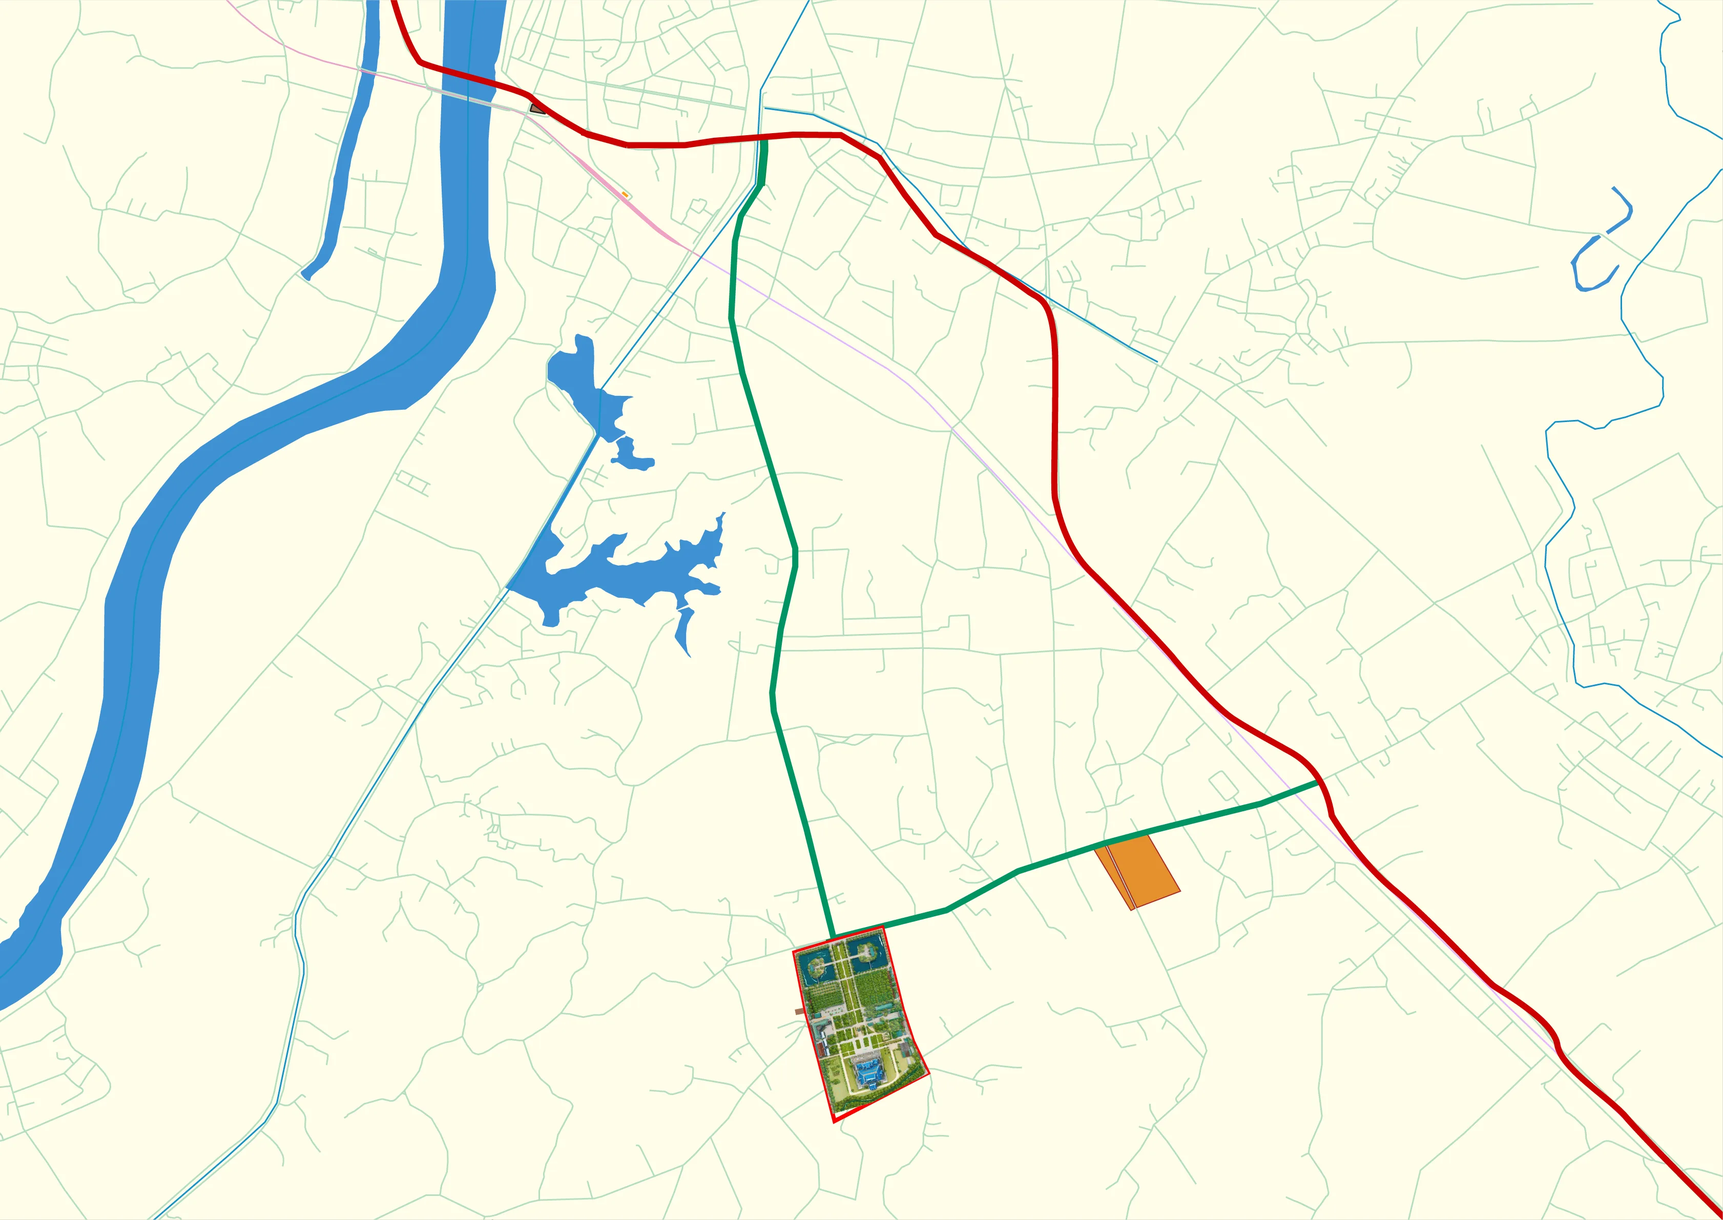
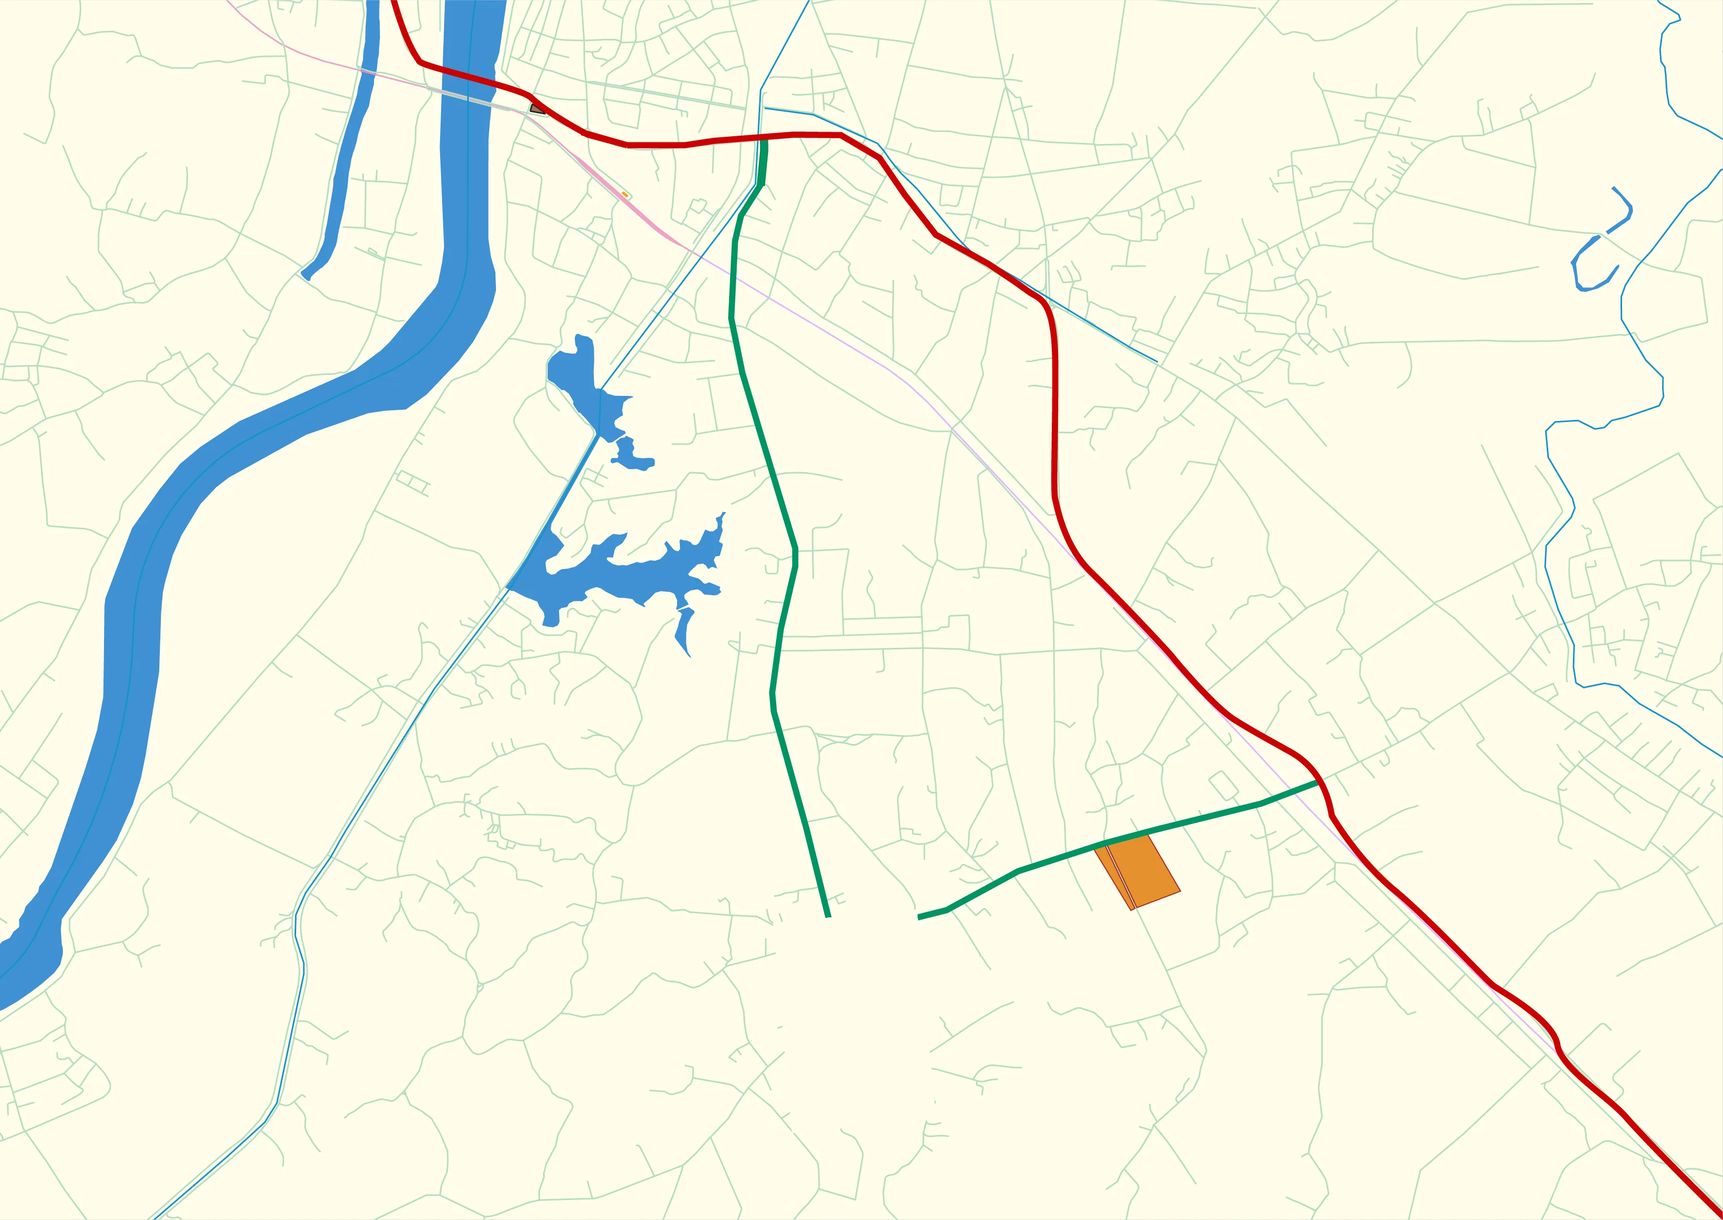
Bỏ nền Esri, thêm chú thích lên sơ đồ vùng, khóa zoom-out trong nền
Bỏ nền Esri:
- Xóa src/data/backdrop.js, public/map/backdrop.webp, scripts/gen-backdrop.mjs
  và dòng ghi công trên giao diện. Người dùng không còn thấy tile bên thứ ba
  -> hết vướng giấy phép, nhẹ đi 210KB.
- Giữ tile sống Esri trong ?calibrate=1: đó là lớp tham chiếu để căn artwork,
  bỏ đi thì công cụ mất tác dụng; tile sống không cache nên không vướng gì.

Xóa hình dán khuôn viên khỏi sơ đồ vùng:
- Trước đây lớp Esri che nó; bỏ Esri thì viền đỏ của hình dán lòi ra quanh
  artwork thành "hai khuôn viên lệch nhau" (hình dán to gấp ~2 lần, xoay 5°
  thay vì 14.4°).
- gen-region.mjs xóa hình dán và tô lại bằng màu giấy nền. Hình dán không phải
  chữ nhật hoàn hảo (có mấu lồi ~135px theo trục ngắn) nên margin 18px; đã
  kiểm tra còn 0 pixel đỏ sót lại.
- Nhờ vậy artwork khuôn viên giờ LUÔN hiện ở mọi mức zoom, không cần ẩn/hiện
  theo zoom nữa.

Chú thích trên sơ đồ (sơ đồ gốc không có chữ):
- REGION_LABELS vẽ đè bằng divIcon khi zoom xa: Trung tâm Thánh Mẫu La Vang,
  Cầu Trắng, Sông Thạch Hãn, Đ. Lê Lợi (một chiều), Đ. Lê Duẩn - QL 1A,
  Đ. Liên Xã (một chiều). Chữ có viền trắng để đọc được trên mọi nền.

Khóa zoom-out trong phạm vi nền:
- Canvas sơ đồ nghiêng ~15° trong khung hiển thị nên vùng an toàn là hộp NỘI
  TIẾP hình bình hành đó, không phải hình bao. Tính bằng scratchpad/
  safebox-labels.mjs -> REGION_SAFE (2.53 x 4.43 km).
- minZoom tính động bằng map.getBoundsZoom() theo kích thước màn hình và cập
[…]

Changed region(s): [[0.4371, 0.7456, 0.562, 0.932]]

diff --git a/src/components/MapView.jsx b/src/components/MapView.jsx
@@ -6,8 +6,7 @@ import {
   displayCalFrom, campusBearing, realToDisplay,
 } from '../map/calibration.js'
 import { CATEGORIES } from '../data/pois.js'
-import { BACKDROP } from '../data/backdrop.js'
-import { REGION, REGION_SWAP_ZOOM } from '../data/region.js'
+import { REGION, REGION_SWAP_ZOOM, REGION_SAFE, REGION_LABELS } from '../data/region.js'
 import { iconSvg } from './Icon.jsx'
 
 const MAP_URLS = {
@@ -49,27 +48,23 @@ export default function MapView({
   const accCircleRef = useRef(null)
   const cornerMarkersRef = useRef(null)
   const routeLayerRef = useRef(null)
-  const backdropRef = useRef(null)
   const regionRef = useRef(null)
+  const labelLayerRef = useRef(null)
   const handlersRef = useRef({})
 
-  // Góc các ảnh nền (tọa độ thật) đưa sang khung đang hiển thị
-  const toDisplayCorners = (src) => {
+  // Góc sơ đồ vùng (tọa độ thật) đưa sang khung đang hiển thị
+  const regionCorners = useMemo(() => {
     const toDisplay = (ll) => {
       const { u, v } = latLngToUv(cal, ll)
       const p = uvToLatLng(frame, u, v)
       return [p.lat, p.lng]
     }
     return {
-      topleft: toDisplay(src.topleft),
-      topright: toDisplay(src.topright),
-      bottomleft: toDisplay(src.bottomleft),
+      topleft: toDisplay(REGION.topleft),
+      topright: toDisplay(REGION.topright),
+      bottomleft: toDisplay(REGION.bottomleft),
     }
-  }
-  // eslint-disable-next-line react-hooks/exhaustive-deps
-  const backdropCorners = useMemo(() => toDisplayCorners(BACKDROP), [cal, frame])
-  // eslint-disable-next-line react-hooks/exhaustive-deps
-  const regionCorners = useMemo(() => toDisplayCorners(REGION), [cal, frame])
+  }, [cal, frame])
 
   // callbacks/props mới nhất cho các listener gắn 1 lần
   handlersRef.current = { onSelectPoi, onUserInteract, onCalChange, cal, frame, mode }
@@ -79,13 +74,13 @@ export default function MapView({
     const map = L.map(divRef.current, {
       zoomControl: false,
       attributionControl: false,
-      minZoom: 13.5,
       maxZoom: 21,
       zoomSnap: 0.25,
+      // Chặn cứng tại maxBounds — không cho kéo bật ra ngoài lộ mép nền
+      maxBoundsViscosity: 1.0,
     })
-    // Sơ đồ vùng (340) dưới vệ tinh (350), cả hai dưới ảnh bản đồ (overlayPane 400)
+    // Sơ đồ vùng nằm dưới ảnh bản đồ (overlayPane có zIndex 400)
     map.createPane('regionPane').style.zIndex = 340
-    map.createPane('backdropPane').style.zIndex = 350
     map.on('zoomend', () => setLowZoom(map.getZoom() < REGION_SWAP_ZOOM))
     map.setView(campusCenter(frame), 16.5)
     map.on('dragstart', () => handlersRef.current.onUserInteract?.())
@@ -109,8 +104,8 @@ export default function MapView({
       mapRef.current = null
       overlayRef.current = null
       satRef.current = null
-      backdropRef.current = null
       regionRef.current = null
+      labelLayerRef.current = null
       routeLayerRef.current = null
       userMarkerRef.current = null
       accCircleRef.current = null
@@ -154,31 +149,32 @@ export default function MapView({
     }
   }, [mode, regionCorners])
 
-  // ---- Ảnh vệ tinh nền (chế độ thường, chỉ khi zoom gần) ----
+  // ---- Nhãn chú thích trên sơ đồ vùng (chỉ khi zoom xa) ----
   useEffect(() => {
     const map = mapRef.current
     if (!map) return
-    if (mode === 'calibrate' || lowZoom) {
-      if (backdropRef.current) {
-        map.removeLayer(backdropRef.current)
-        backdropRef.current = null
-      }
-      return
+    if (labelLayerRef.current) {
+      map.removeLayer(labelLayerRef.current)
+      labelLayerRef.current = null
     }
-    if (!backdropRef.current) {
-      backdropRef.current = rotatedImageOverlay(
-        BACKDROP.url,
-        backdropCorners.topleft, backdropCorners.topright, backdropCorners.bottomleft,
-        { pane: 'backdropPane' }
-      ).addTo(map)
-    } else {
-      backdropRef.current.setCorners(
-        backdropCorners.topleft, backdropCorners.topright, backdropCorners.bottomleft
+    if (mode !== 'normal' || !lowZoom) return
+    labelLayerRef.current = L.layerGroup(
+      REGION_LABELS.map((lb) =>
+        L.marker(uvToLatLng(frame, lb.u, lb.v), {
+          interactive: false,
+          keyboard: false,
+          icon: L.divIcon({
+            className: '',
+            html: `<div class="region-label region-label-${lb.kind}">${lb.text}</div>`,
+            iconSize: [180, 20],
+            iconAnchor: [90, 10],
+          }),
+        })
       )
-    }
-  }, [mode, backdropCorners, lowZoom])
+    ).addTo(map)
+  }, [mode, lowZoom, frame])
 
-  // ---- Ảnh bản đồ overlay (ẩn khi zoom xa — sơ đồ vùng tự thể hiện khuôn viên) ----
+  // ---- Ảnh bản đồ khuôn viên (luôn hiện — hình dán trong sơ đồ đã bị xóa) ----
   useEffect(() => {
     const map = mapRef.current
     if (!map) return
@@ -186,14 +182,14 @@ export default function MapView({
       map.removeLayer(overlayRef.current)
       overlayRef.current = null
     }
-    if (layer !== 'none' && !(mode === 'normal' && lowZoom)) {
+    if (layer !== 'none') {
       overlayRef.current = rotatedImageOverlay(
         MAP_URLS[layer], frame.topleft, frame.topright, frame.bottomleft,
         { opacity: overlayOpacity }
       ).addTo(map)
     }
     // eslint-disable-next-line react-hooks/exhaustive-deps
-  }, [layer, lowZoom, mode])
+  }, [layer])
 
   // corners/opacity thay đổi → cập nhật overlay hiện có
   useEffect(() => {
@@ -208,19 +204,24 @@ export default function MapView({
     const map = mapRef.current
     if (!map) return
     if (mode === 'normal') {
-      // Cho pan tới hết sơ đồ vùng (~6.9 x 4.9 km)
-      const b = regionCorners
-      const fourth = [
-        b.topright[0] + b.bottomleft[0] - b.topleft[0],
-        b.topright[1] + b.bottomleft[1] - b.topleft[1],
-      ]
-      map.setMaxBounds(
-        L.latLngBounds([b.topleft, b.topright, b.bottomleft, fourth]).pad(0.02)
+      // Hộp an toàn nội tiếp canvas sơ đồ đã xoay: viewport luôn nằm trong nền.
+      // minZoom động theo kích thước màn hình: mức zoom nhỏ nhất mà viewport
+      // vẫn lọt trong hộp (màn hình càng rộng minZoom càng cao).
+      const bounds = L.latLngBounds(
+        uvToLatLng(frame, REGION_SAFE.u0, REGION_SAFE.v0),
+        uvToLatLng(frame, REGION_SAFE.u1, REGION_SAFE.v1)
       )
-    } else {
-      map.setMaxBounds(null)
+      const apply = () => {
+        map.setMaxBounds(bounds)
+        map.setMinZoom(map.getBoundsZoom(bounds, true))
+      }
+      apply()
+      map.on('resize', apply)
+      return () => map.off('resize', apply)
     }
-  }, [mode, regionCorners])
+    map.setMaxBounds(null)
+    map.setMinZoom(13)
+  }, [mode, frame])
 
   // ---- POI markers ----
   useEffect(() => {

diff --git a/src/data/region.js b/src/data/region.js
@@ -14,6 +14,26 @@ export const REGION = {
   bottomleft: [16.699245, 107.1634728],
 }
 
-// Dưới mức zoom này: ẩn artwork + vệ tinh, chỉ hiện sơ đồ vùng (hình dán khuôn viên
-// trong sơ đồ làm đại diện); từ mức này trở lên: artwork chuẩn + vệ tinh như cũ.
+// Dưới mức zoom này coi là "tầm nhìn vùng": hiện nhãn chú thích đường/địa danh
+// và chỉ giữ POI nhóm Đi lại (31 marker ở tầm này sẽ đè chồng lên nhau).
 export const REGION_SWAP_ZOOM = 15.75
+
+// Hộp giới hạn pan/zoom (theo uv khung khuôn viên) — nội tiếp canvas sơ đồ đã xoay,
+// để zoom-out hết mức viewport vẫn nằm trọn trong nền, không lộ mép.
+// Canvas nghiêng nên phải đánh đổi: hộp này ưu tiên giữ Cầu Trắng (bắc) và sông
+// Thạch Hãn (tây) trong tầm nhìn. Tính bằng scratchpad safebox-labels.mjs.
+export const REGION_SAFE = { u0: -5.2, u1: 4.0, v0: -0.25, v1: 5.68 }
+
+// Nhãn chú thích vẽ đè lên sơ đồ khi zoom xa (sơ đồ gốc không có chữ).
+// Vị trí theo TỌA ĐỘ HÌNH VẼ trên sơ đồ (đổi từ px canvas qua fit) — nhãn phục vụ
+// đọc sơ đồ, không phải vị trí GPS thật (phần bắc sơ đồ bị nén ~2 lần).
+export const REGION_LABELS = [
+  // Khuôn viên: đặt theo uv thật (0.5, 1.18) — ngay dưới artwork, không phải theo sơ đồ
+  { id: 'trung-tam', text: 'Trung tâm Thánh Mẫu La Vang', kind: 'place', u: 0.5, v: 1.18 },
+  { id: 'cau-trang', text: 'Cầu Trắng', kind: 'place', u: -0.744, v: 5.554 },
+  { id: 'song-thach-han', text: 'Sông Thạch Hãn', kind: 'water', u: 3.869, v: 4.509 },
+  { id: 'le-loi-1', text: 'Đ. Lê Lợi', kind: 'road', u: 0.015, v: 4.143 },
+  { id: 'le-loi-2', text: 'Đ. Lê Lợi (một chiều)', kind: 'road', u: 0.719, v: 2.103 },
+  { id: 'le-duan', text: 'Đ. Lê Duẩn · QL 1A', kind: 'road', u: -3.037, v: 3.61 },
+  { id: 'lien-xa', text: 'Đ. Liên Xã (một chiều)', kind: 'road', u: -2.619, v: 1.287 },
+]

diff --git a/src/styles.css b/src/styles.css
@@ -43,6 +43,11 @@ button { font-family: inherit; }
 /* Nền trùng màu giấy kem của sơ đồ vùng để mép canvas không lộ */
 .map-root { position: absolute; inset: 0; background: #fffdea; z-index: 0; }
 
+/* Leaflet chỉ đặt user-select:none cho tile/marker chứ không cho container, nên
+   kéo bản đồ sẽ bôi đen cả trang; iOS giữ lâu lại hiện menu "Lưu ảnh". */
+.leaflet-container { user-select: none; -webkit-user-select: none; }
+.leaflet-container img { -webkit-user-drag: none; -webkit-touch-callout: none; }
+
 /* ============ Màn hình chọn địa điểm ============ */
 .home {
   height: 100%; overflow-y: auto; background: var(--paper);
@@ -249,14 +254,24 @@ button { font-family: inherit; }
 .fab:active { background: var(--g-hover); }
 .fab-on { color: var(--g-blue); }
 
-/* Ghi công nguồn ảnh vệ tinh (bắt buộc theo điều khoản Esri) */
-.attribution {
-  position: absolute; left: 6px; z-index: 400;
-  bottom: calc(4px + env(safe-area-inset-bottom));
-  background: rgba(255,255,255,.75); border-radius: 3px;
-  padding: 2px 6px; font-size: 10px; color: var(--g-text-2);
+/* Nhãn chú thích vẽ đè lên sơ đồ vùng khi zoom xa (sơ đồ gốc không có chữ).
+   Viền trắng quanh chữ để đọc được trên mọi nền của sơ đồ. */
+.region-label {
+  font-size: 11px; font-weight: 700; letter-spacing: .3px;
+  text-align: center; line-height: 1.25; white-space: nowrap;
+  text-shadow:
+    -1.5px -1.5px 0 #fffdea, 1.5px -1.5px 0 #fffdea,
+    -1.5px 1.5px 0 #fffdea, 1.5px 1.5px 0 #fffdea,
+    0 0 4px #fffdea;
 }
-.app.has-sheet .attribution, .app.guiding .attribution { display: none; }
+.region-label-road { color: #b3261e; }
+.region-label-water { color: #1c6fb8; }
+.region-label-place {
+  color: #16283f; font-size: 12px;
+  padding: 3px 9px; border-radius: 11px; white-space: nowrap;
+  background: #fffdea; border: 1.5px solid #b3261e; text-shadow: none;
+  display: inline-block;
+}
 
 /* ============ Banner ============ */
 .banner {

diff --git a/src/App.jsx b/src/App.jsx
@@ -3,7 +3,6 @@ import MapView from './components/MapView.jsx'
 import HomeScreen from './components/HomeScreen.jsx'
 import Icon from './components/Icon.jsx'
 import { CATEGORIES, POIS } from './data/pois.js'
-import { BACKDROP } from './data/backdrop.js'
 import { MASK_W, MASK_H } from './data/walkmask.js'
 import { findRoute } from './map/router.js'
 import { useGeolocation } from './hooks/useGeolocation.js'
@@ -189,8 +188,6 @@ export default function App() {
               <Icon name={follow ? 'MyLocation' : 'Navigation'} size={22} />
             </button>
           </div>
-
-          <div className="attribution">{BACKDROP.attribution}</div>
 
           <Banners geo={geo} pos={pos} insideCampus={insideCampus} guiding={guiding} routeInfo={routeInfo} />
 

diff --git a/README.md b/README.md
@@ -66,23 +66,24 @@ Tương tự, chip lọc nằm trên bản đồ phải chồng lớp tint lên 
   fit theo 2 neo gần khuôn viên (Lê Lợi×Liên Xã node 3100290389 + đầu đông Liên Xã node
   1021092494; scale 2.058 m/px, xoay 1.03°) — GPS chính xác ở vành đai đỗ xe/đi bộ vào,
   phần bắc chỉ minh họa. Xem thêm chú thích trong `src/data/region.js`.
-  - **Chuyển lớp theo zoom** (`REGION_SWAP_ZOOM = 15.75`): zoom gần = artwork khuôn viên +
-    vệ tinh + đủ POI; zoom xa = chỉ sơ đồ vùng (hình dán khuôn viên trong sơ đồ làm đại diện —
-    hình dán bị vẽ to ~2 lần nên không thể đè artwork chuẩn lên, sẽ thành hai khuôn viên lệch
-    nhau) + POI nhóm Đi lại. `minZoom` 13.5, maxBounds theo canvas sơ đồ.
+  - **Hình dán khuôn viên trong sơ đồ bị XÓA** khi build asset (`scripts/gen-region.mjs`):
+    nó bị vẽ to gấp ~2 lần và xoay ~5° thay vì 14.4°, nên nếu giữ thì viền đỏ của nó lòi ra
+    quanh lớp artwork đã georeference chuẩn thành "hai khuôn viên lệch nhau". Vùng xóa tô lại
+    bằng màu giấy nền; các tuyến đường đều kết thúc ở rìa khuôn viên nên không mất đoạn nào.
+  - **Chú thích** (`REGION_LABELS`): sơ đồ gốc không có chữ, nên tên đường/địa danh được vẽ đè
+    bằng divIcon khi zoom xa (`< REGION_SWAP_ZOOM = 15.75`), kèm POI nhóm Đi lại — ở tầm này
+    31 marker sẽ đè chồng nhau. Zoom gần thì ẩn nhãn, hiện đủ POI.
+  - **Zoom-out không bao giờ lộ mép nền**: canvas sơ đồ nghiêng ~15° trong khung hiển thị nên
+    vùng an toàn là hộp NỘI TIẾP hình bình hành đó (`REGION_SAFE`, tính bằng
+    `scratchpad/safebox-labels.mjs`), không phải hình bao. `minZoom` được tính động bằng
+    `map.getBoundsZoom(bounds)` theo kích thước màn hình (màn rộng → minZoom cao hơn) và
+    cập nhật lại khi `resize`; `maxBoundsViscosity: 1.0` chặn cứng không cho kéo bật ra.
   - POI ngoài khuôn viên lưu bằng uv ngoài [0,1] (phép affine ngoại suy được): Điểm đón trả
     khách (tọa độ OSM thật), Bãi đỗ xe khách (từ sơ đồ qua fit — chưa có ground truth, đo
     thực địa rồi chỉnh bằng `?editpoi=1`). KHÔNG đặt POI Cầu Trắng: vị trí thật của nó nằm
     ngoài canvas sơ đồ 1.2km (do phần bắc bị nén) — marker sẽ trôi giữa nền trống.
   - Chỉ đường tới điểm ngoài mặt nạ lối đi → đường chim bay nét đứt + ghi chú, không giả vờ
     biết lối đi thật.
-- **Ảnh vệ tinh nền** (`scripts/gen-backdrop.mjs` → `public/map/backdrop.webp` + `src/data/backdrop.js`):
-  vùng 2800×2800m quanh khuôn viên, ghép từ tile **Esri World Imagery** ở zoom 16 (~2.3 m/px, 210KB).
-  Không dùng tile sống vì chế độ thường xoay bản đồ campus-up còn tile luôn hướng Bắc — sẽ lệch ~194°.
-  Ảnh tĩnh được đặt qua đúng phép biến đổi thật→hiển thị nên xoay khớp artwork, và chạy được offline.
-  `minZoom` 15.75 và giới hạn pan ±900m×±1150m giữ khung hình luôn nằm trong vùng an toàn của ảnh nền
-  (ảnh nền là hình vuông bị xoay nên vùng an toàn nhỏ hơn hình bao của nó).
-  Nguồn ảnh phải được ghi công trên giao diện — xem lưu ý bản quyền bên dưới.
 - **POI** lưu theo tọa độ ảnh `(u, v) ∈ [0,1]` trong `src/data/pois.js` — bám vào ảnh, không phụ thuộc calibration.
 - **GPS** (`src/hooks/useGeolocation.js`): `watchPosition` + `enableHighAccuracy`, bỏ qua fix có accuracy > 30m (chỉ làm mờ marker), deadzone 2m, làm mượt EMA, vòng tròn accuracy, heading khi đang di chuyển.
 - **Chỉ đường** (`src/map/router.js` + `src/data/walkmask.js`): mặt nạ lối đi bộ được **trích tự động từ chính ảnh bản đồ** — lối lát gạch trong khuôn viên là màu be ấm (`sat 0.05–0.32`, `r−b 12–48`), còn vùng ngoài khuôn viên trong ảnh là xám thật nên bị loại; sau đó lấy thành phần liên thông lớn nhất (lưới 320×569, mỗi ô ~1.2m). A* 8 hướng cấm cắt góc chéo, rút gọn bằng line-of-sight.
@@ -103,19 +104,15 @@ Tương tự, chip lọc nằm trên bản đồ phải chồng lớp tint lên 
 - `assets-src/` — ảnh gốc độ phân giải đầy đủ (2 lớp: có cây / không cây) + ảnh tham chiếu vị trí POI.
 - `public/map/` — bản downscale 2048/4096px cho web (tạo bằng ffmpeg).
 
-## Lưu ý bản quyền ảnh vệ tinh
+## Lưu ý bản quyền
 
-Ảnh nền lấy từ **Esri World Imagery**, KHÔNG phải Google Maps — lấy tile Google bằng URL
-trực tiếp là vi phạm điều khoản của Google.
+Mọi ảnh nền người dùng nhìn thấy đều là **tài sản của dự án** (artwork khuôn viên + sơ đồ vùng),
+không cache tile của bên thứ ba — nên không vướng giấy phép và chạy được offline.
 
-App đang **lưu sẵn (cache) tile Esri vào repo** dưới dạng một ảnh tĩnh. Dùng tile sống kèm ghi công
-là cách dùng phổ thông và rõ ràng được phép; còn xuất/lưu tile ra file thì Esri có dịch vụ riêng
-cho việc đó (*World Imagery (for Export)*). **Trước khi phát hành chính thức nên kiểm tra lại điều khoản
-hoặc đổi sang nguồn có giấy phép dứt khoát** (ví dụ ESA Sentinel-2 cloudless, CC BY 4.0) — chỉ cần
-đổi `URL` trong `scripts/gen-backdrop.mjs` rồi chạy lại, phần còn lại không phải sửa.
-
-Dòng ghi công `Ảnh vệ tinh: Esri, Maxar, Earthstar Geographics` hiển thị ở góc dưới bản đồ và
-là bắt buộc — đừng xoá.
+Ngoại lệ duy nhất: chế độ debug `?calibrate=1` nạp **tile sống Esri World Imagery** làm lớp tham
+chiếu để căn ảnh. Đây là cách dùng tile tiêu chuẩn (không lưu lại, không phát hành lại) và người
+dùng cuối không bao giờ thấy màn này. Không dùng tile Google vì lấy bằng URL trực tiếp là vi phạm
+điều khoản của Google.
 
 ## Lưu ý độ chính xác
 
